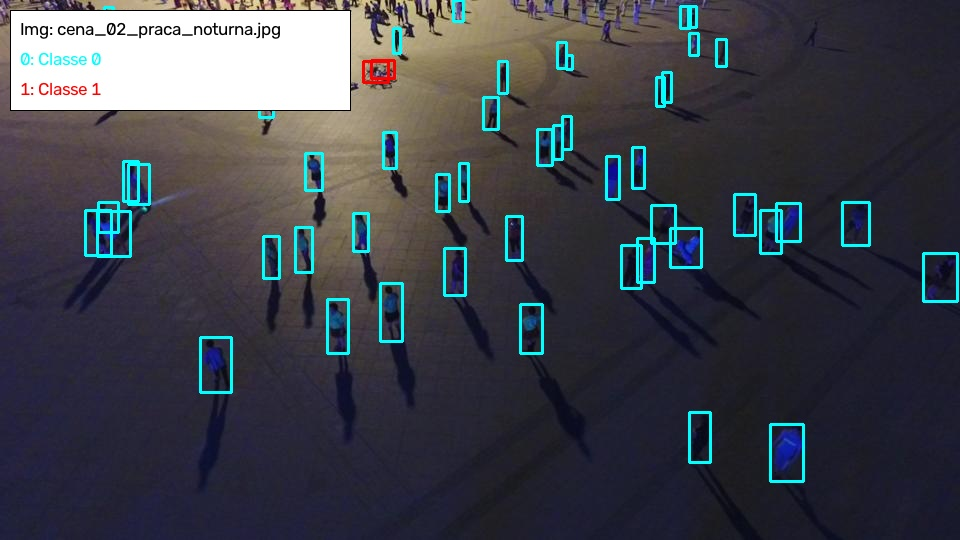
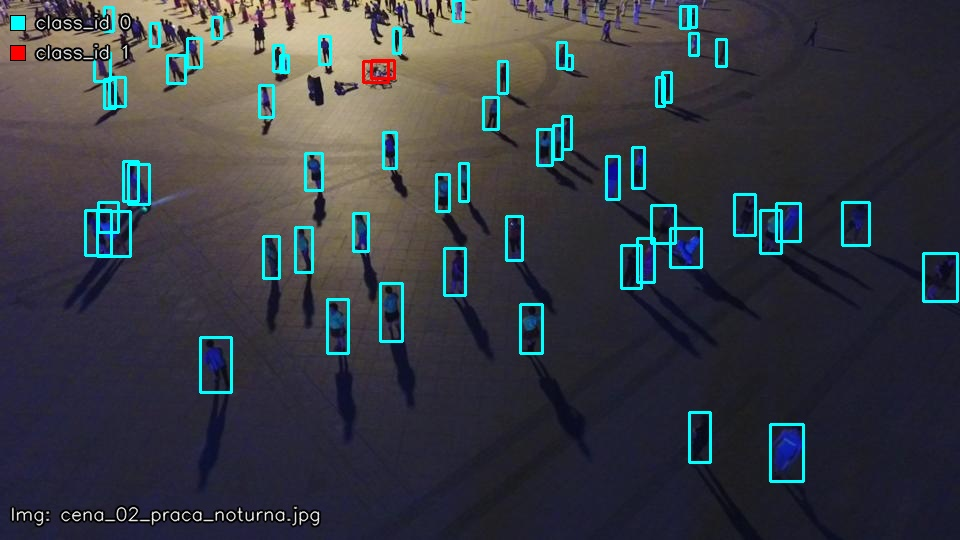
Alteração na forma como a legenda fica disposta na imagem. Atualmente, fica de uma forma mais limpa, sem tapar tanto os resultados

Changed region(s): [[0.0, 0.0, 0.375, 0.2074], [0.0, 0.9185, 0.3438, 0.9778]]

diff --git a/src/modelos.py b/src/modelos.py
@@ -46,11 +46,25 @@ class ImagemAnotada:
                 atual.desenhar(img)
                 caixas_desenhadas += 1
 
-        cv.rectangle(img, (10, 10), (350, 110), (255, 255, 255), -1)
-        cv.rectangle(img, (10, 10), (350, 110), (0, 0, 0), 1)
-        cv.putText(img, f"Img: {self.caminho}", (20, 35), cv.FONT_HERSHEY_SIMPLEX, 0.6, (0, 0, 0), 1, cv.LINE_AA)
-        cv.putText(img, "0: Classe 0", (20, 65), cv.FONT_HERSHEY_SIMPLEX, 0.6, (255, 255, 0), 1, cv.LINE_AA)
-        cv.putText(img, "1: Classe 1", (20, 95), cv.FONT_HERSHEY_SIMPLEX, 0.6, (0, 0, 255), 1, cv.LINE_AA)
+        font = cv.FONT_HERSHEY_SIMPLEX
+
+        cv.rectangle(img, (10, 15), (25, 30), (255, 255, 0), -1)
+        cv.rectangle(img, (10, 15), (25, 30), (0, 0, 0), 1)
+        # Texto ao lado da caixa, em branco com contorno preto
+        cv.putText(img, "class_id 0", (35, 28), font, 0.6, (0, 0, 0), 3, cv.LINE_AA)
+        cv.putText(img, "class_id 0", (35, 28), font, 0.6, (255, 255, 255), 1, cv.LINE_AA)
+
+        # Legenda Classe 1
+        cv.rectangle(img, (10, 45), (25, 60), (0, 0, 255), -1)
+        cv.rectangle(img, (10, 45), (25, 60), (0, 0, 0), 1)
+        cv.putText(img, "class_id 1", (35, 58), font, 0.6, (0, 0, 0), 3, cv.LINE_AA)
+        cv.putText(img, "class_id 1", (35, 58), font, 0.6, (255, 255, 255), 1, cv.LINE_AA)
+
+        # Nome da Imagem na parte inferior
+        texto_img = f"Img: {self.caminho}"
+        pos_y_inferior = altura - 20
+        cv.putText(img, texto_img, (10, pos_y_inferior), font, 0.6, (0, 0, 0), 3, cv.LINE_AA)
+        cv.putText(img, texto_img, (10, pos_y_inferior), font, 0.6, (255, 255, 255), 1, cv.LINE_AA)
 
         cv.imwrite(caminho_salvar, img)
         print(f"[{self.caminho}] {caixas_desenhadas} caixas desenhadas.")
